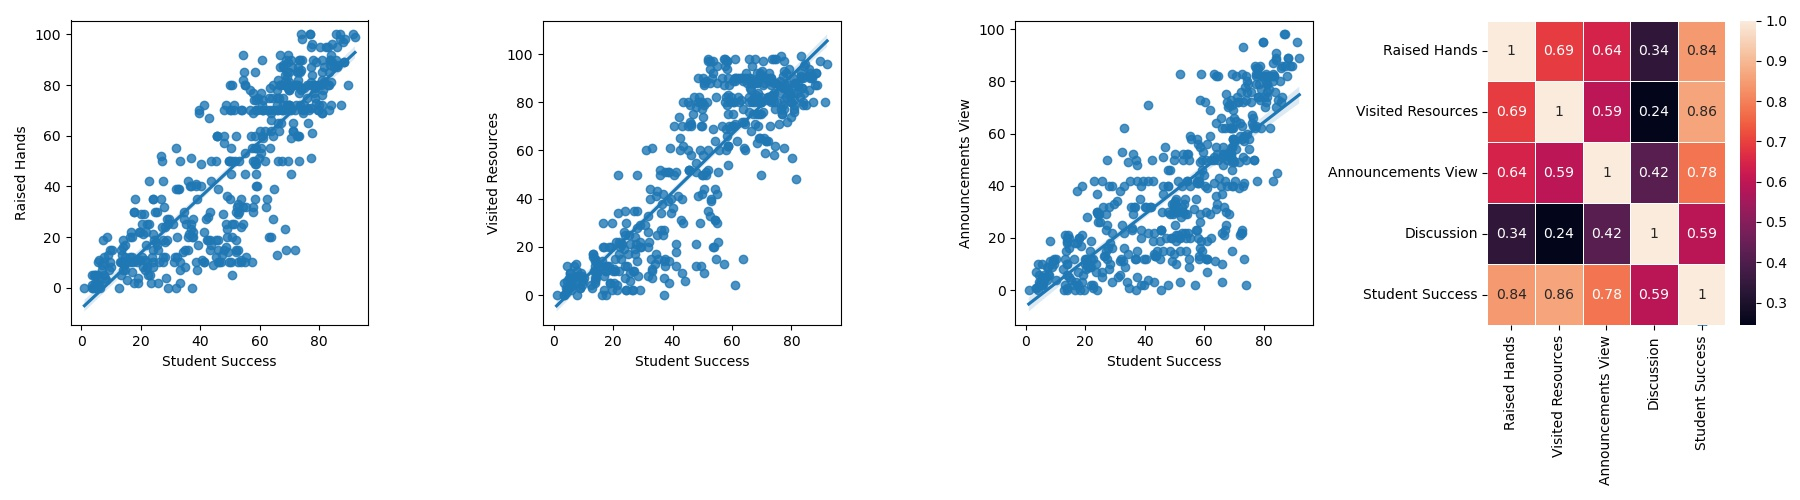
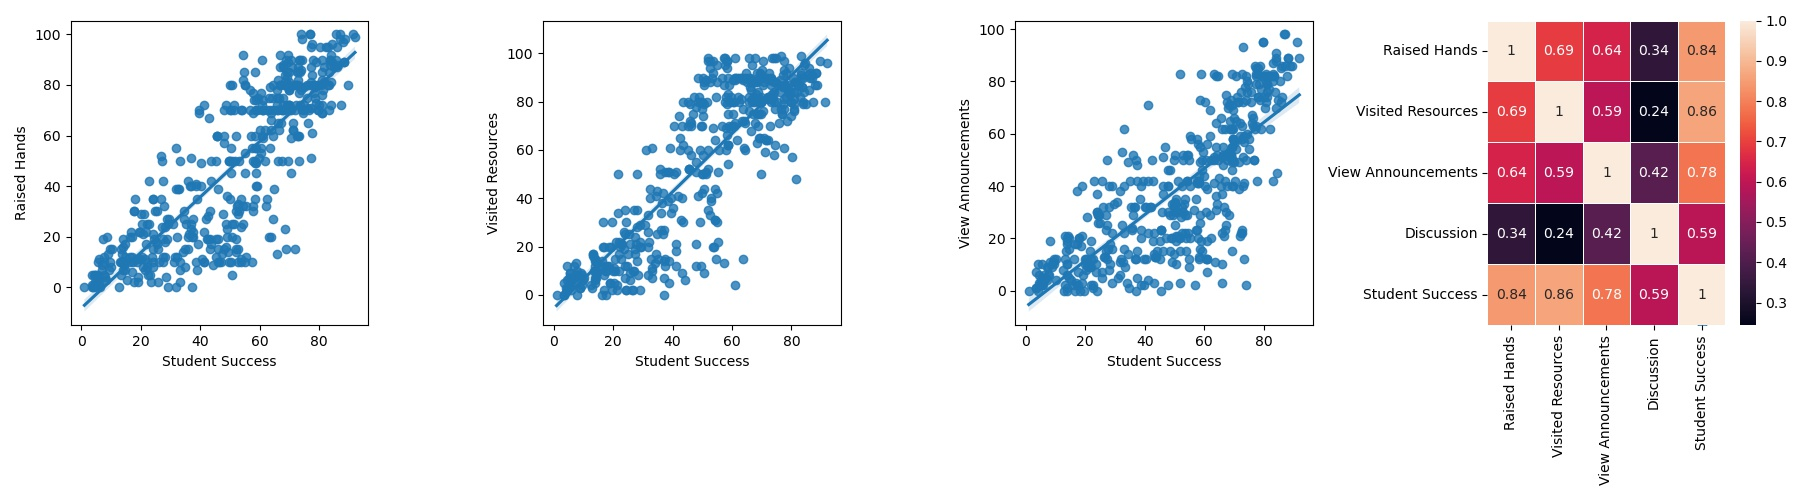
code change on visualization

diff --git a/visualization.py b/visualization.py
@@ -85,16 +85,16 @@ if __name__ == '__main__':
     data = read_data()
     data = data.rename(columns={'gender': 'Gender','NationalITy': 'Nationality', 'PlaceofBirth': 'Place of Birth', 'StageID': 'Stage ID', 
                         'ParentschoolSatisfaction': 'Parentschool Satisfaction', 'StudentAbsenceDays': 'Student Absence Days', 
-                        'raisedhands': 'Raised Hands', 'VisITedResources': 'Visited Resources', 'AnnouncementsView': 'Announcements View'})
+                        'raisedhands': 'Raised Hands', 'VisITedResources': 'Visited Resources', 'AnnouncementsView': 'View Announcements'})
     
-    create_student_success(data, 'Raised Hands', 'Visited Resources', 'Announcements View', 'Discussion')
+    create_student_success(data, 'Raised Hands', 'Visited Resources', 'View Announcements', 'Discussion')
     
-    column_numerical = ['Raised Hands', 'Visited Resources', 'Announcements View', 'Discussion', 'Student Success']
+    column_numerical = ['Raised Hands', 'Visited Resources', 'View Announcements', 'Discussion', 'Student Success']
     column_nominal = ['Topic', 'Nationality', 'Student Absence Days', 'Parentschool Satisfaction', 'Relation', 'Stage ID']
 
     student_success_plot('Topic', 'Nationality', 'Student Absence Days', 'Parentschool Satisfaction', 'Relation', 'Stage ID')
 
-    class_plot('Raised Hands', 'Visited Resources', 'Announcements View', 'Discussion')
+    class_plot('Raised Hands', 'Visited Resources', 'View Announcements', 'Discussion')
 
     outlier_plot(column_numerical)
 
